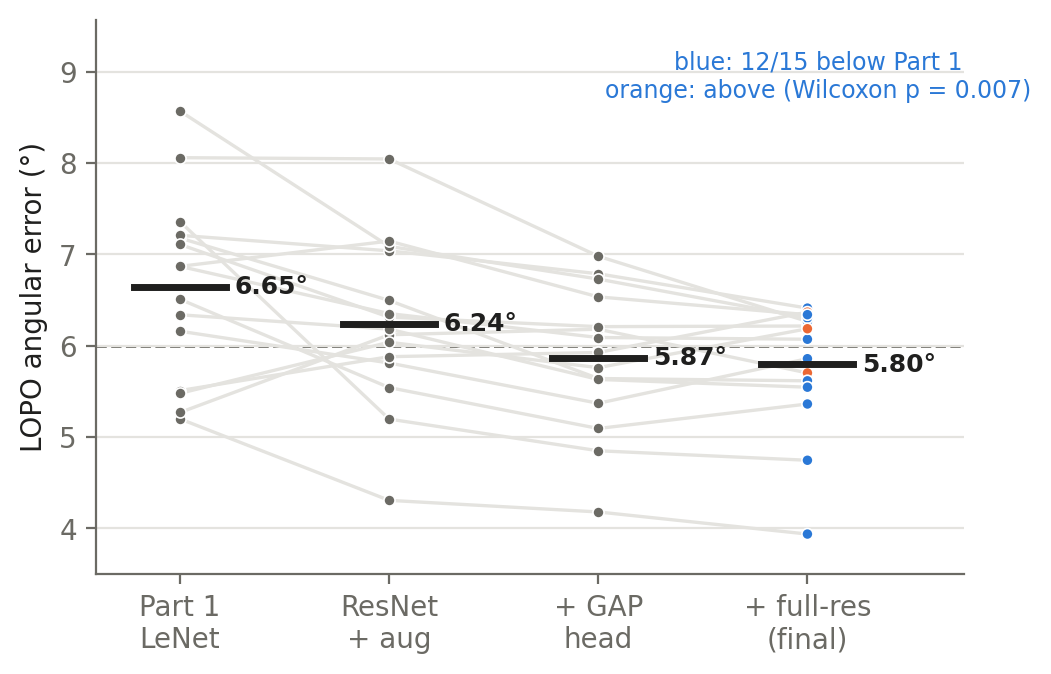
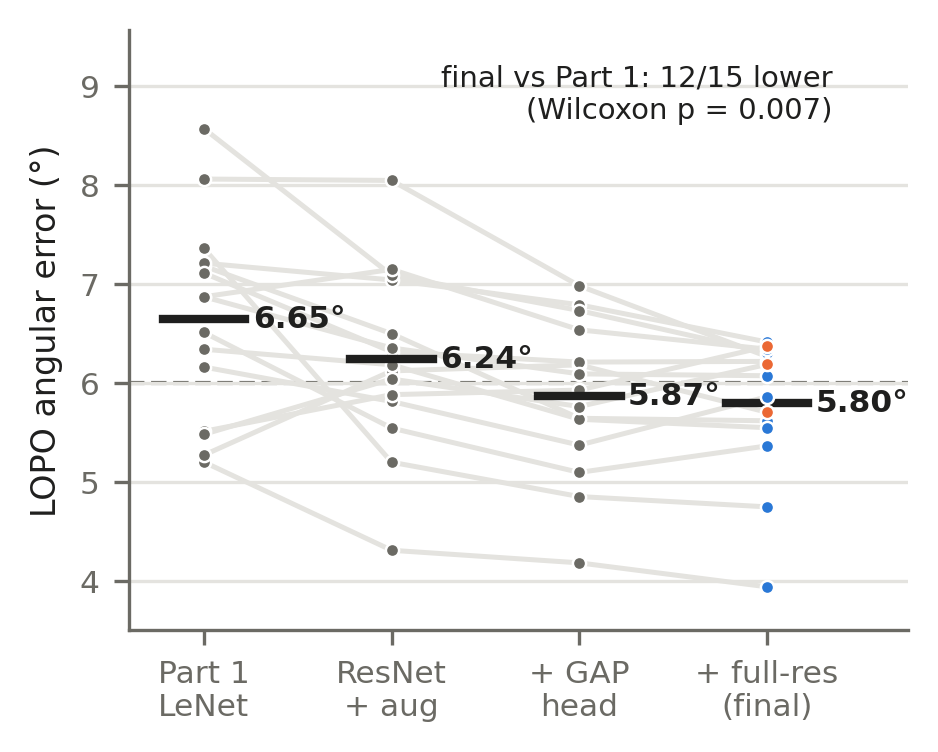
Part 2: print-size figures and final report wording

Changed region(s): [[0.0, 0.0312, 0.9893, 0.9659]]

diff --git a/mpiigaze/part2/make_figures.py b/mpiigaze/part2/make_figures.py
@@ -11,10 +11,10 @@ OUT = os.path.join(HERE, 'figures')
 os.makedirs(OUT, exist_ok=True)
 C = ['#2a78d6', '#eb6834', '#1baf7a', '#eda100']   # 범주 색 (고정 순서)
 INK, MUTED, GRID = '#1f1f1e', '#6b6a64', '#e4e3df'
-plt.rcParams.update({'font.size': 10, 'axes.edgecolor': MUTED, 'axes.labelcolor': INK, 'xtick.color': MUTED,
+plt.rcParams.update({'font.size': 8, 'axes.titlesize': 8, 'axes.labelsize': 8, 'xtick.labelsize': 7.5, 'ytick.labelsize': 7.5, 'legend.fontsize': 7.5, 'axes.edgecolor': MUTED, 'axes.labelcolor': INK, 'xtick.color': MUTED,
                      'ytick.color': MUTED, 'axes.spines.top': False, 'axes.spines.right': False,
                      'axes.grid': True, 'grid.color': GRID, 'grid.linewidth': 0.8, 'axes.axisbelow': True,
-                     'savefig.dpi': 200, 'savefig.bbox': 'tight'})
+                     'savefig.dpi': 300, 'savefig.bbox': 'tight'})
 
 PART1 = np.array([5.20, 7.36, 5.27, 7.18, 7.21, 7.11, 6.34, 8.06, 6.87, 8.57, 6.16, 5.51, 6.51, 6.87, 5.48])
 rows = list(csv.DictReader(open(os.path.join(HERE, 'results.csv'))))
@@ -32,41 +32,43 @@ _, G, _, P = load_data('none')
 models_ = [('Part 1\nLeNet', PART1), ('ResNet\n+ aug', lopo('L_aug')),
            ('+ GAP\nhead', lopo('L_gap')), ('+ full-res\n(final)', lopo('L_gapfull'))]
 V = np.array([m[1] for m in models_])           # (4, 15)
-fig, ax = plt.subplots(figsize=(5.6, 3.6))
+fig, ax = plt.subplots(figsize=(3.35, 2.6))
 x = np.arange(len(models_))
 better = V[-1] < V[0]
 for k in range(15):
     ax.plot(x, V[:, k], color=GRID, lw=1.2, zorder=1)
 for i in range(len(models_)):
-    col = [C[0] if b else C[1] for b in better] if i == len(models_) - 1 else MUTED
-    ax.scatter(np.full(15, x[i]), V[i], s=16, color=col, zorder=2, edgecolor='white', linewidth=0.6)
-    ax.plot([x[i] - 0.22, x[i] + 0.22], [V[i].mean()] * 2, color=INK, lw=2.5, zorder=3)
-    ax.text(x[i] + 0.26, V[i].mean(), f'{V[i].mean():.2f}°', va='center', fontsize=9, color=INK, fontweight='bold')
+    if i == len(models_) - 1:   # 최종 모델: Part 1보다 낮으면 파랑, 높으면 주황 (주황을 위에 그려 가려지지 않게)
+        ax.scatter(np.full(better.sum(), x[i]), V[i][better], s=10, color=C[0], zorder=4, edgecolor='white', linewidth=0.6)
+        ax.scatter(np.full((~better).sum(), x[i]), V[i][~better], s=10, color=C[1], zorder=5, edgecolor='white', linewidth=0.6)
+    else:
+        ax.scatter(np.full(15, x[i]), V[i], s=10, color=MUTED, zorder=2, edgecolor='white', linewidth=0.6)
+    ax.plot([x[i] - 0.22, x[i] + 0.22], [V[i].mean()] * 2, color=INK, lw=2, zorder=3)
+    ax.text(x[i] + 0.26, V[i].mean(), f'{V[i].mean():.2f}°', va='center', fontsize=7.5, color=INK, fontweight='bold')
 ax.axhline(6.0, color=MUTED, lw=1, ls='--', zorder=0)
 p = stats.wilcoxon(V[-1], V[0]).pvalue
-ax.text(x[-1] + 0.05, V.max() + 0.15, f'blue: {better.sum()}/15 below Part 1\norange: above (Wilcoxon p = {p:.3f})', ha='center', fontsize=8.5, color=C[0])
+ax.text(x[-1] + 0.35, V.max() + 0.1, f'final vs Part 1: {better.sum()}/15 lower\n(Wilcoxon p = {p:.3f})', ha='right', fontsize=7, color=INK)
 ax.set_xticks(x, [m[0] for m in models_]); ax.set_xlim(-0.4, x[-1] + 0.75)
 ax.set_ylabel('LOPO angular error (°)'); ax.grid(axis='x', visible=False)
 ax.set_ylim(3.5, V.max() + 1.0)
 fig.savefig(os.path.join(OUT, 'lopo_paired.png')); plt.close(fig)
 
 # 2. 학습 곡선 (LOPO 15 fold 평균), 범례 대신 직접 라벨
-fig, ax = plt.subplots(figsize=(5.4, 3.3))
-for i, (pre, lab) in enumerate([('L_aug', 'flatten'), ('L_gapfull', 'GAP, full-res')]):
+fig, ax = plt.subplots(figsize=(3.35, 2.4))
+for i, (pre, lab) in enumerate([('L_aug', 'flatten'), ('L_gapfull', 'GAP')]):
     H = [json.load(open(os.path.join(HERE, 'runs', f'{pre}_p{k:02d}.json')))['hist'] for k in range(15)]
     tr = np.mean([[h['train_err'] for h in hh] for hh in H], 0)
     te = np.mean([[h['test_err'] for h in hh] for hh in H], 0)
     ep = np.arange(1, len(tr) + 1)
-    ax.plot(ep, te, color=C[i], lw=2, marker='o', ms=4)
-    ax.plot(ep, tr, color=C[i], lw=2, ls='--')
-    ax.text(ep[-1] + 0.15, te[-1], f'{lab} test {te[-1]:.2f}°', color=C[i], va='center', fontsize=8.5)
-    ax.text(ep[-1] + 0.15, tr[-1], f'{lab} train {tr[-1]:.2f}°', color=C[i], va='center', fontsize=8.5)
+    ax.plot(ep, te, color=C[i], lw=1.6, marker='o', ms=3)
+    ax.plot(ep, tr, color=C[i], lw=1.6, ls='--')
+    ax.text(ep[-1] + 0.2, te[-1], f'{lab} test {te[-1]:.2f}°', color=C[i], va='center', fontsize=7)
+    ax.text(ep[-1] + 0.2, tr[-1], f'{lab} train {tr[-1]:.2f}°', color=C[i], va='center', fontsize=7)
     if pre == 'L_gapfull':
         ax.fill_between(ep[1:], tr[1:], te[1:], color=C[i], alpha=0.08)
-        ax.text(5.3, (tr[5] + te[5]) / 2, f'gap {te[-1] - tr[-1]:.1f}°', color=C[i], fontsize=8.5)
+        ax.text(5.6, (tr[5] + te[5]) / 2, f'gap {te[-1] - tr[-1]:.1f}°', color=C[i], fontsize=7)
 ax.set_xlabel('Epoch'); ax.set_ylabel('Mean angular error (°)'); ax.set_ylim(2.5, 9)
-ax.set_xlim(0.7, 11.2); ax.set_xticks(range(1, 9))
-ax.text(1.05, 2.7, 'solid: test (unseen person)   dashed: train (augmented)', fontsize=7.5, color=MUTED)
+ax.set_xlim(0.7, 12.0); ax.set_xticks(range(1, 9))
 fig.savefig(os.path.join(OUT, 'learning_curves.png')); plt.close(fig)
 
 # 3. 사람별 고정 편향: (a) 평균 잔차 (b) 편향 제거 전후 오차 (분석용, 테스트 라벨 사용)
@@ -78,24 +80,25 @@ for k in range(15):
     e0.append(nn.angular_error_deg(p_, G[te]).mean())
     e1.append(nn.angular_error_deg(p_ - (p_ - G[te]).mean(0), G[te]).mean())
 bias, e0, e1 = np.array(bias), np.array(e0), np.array(e1)
-fig, (a1, a2) = plt.subplots(1, 2, figsize=(8.6, 3.6), gridspec_kw={'width_ratios': [1, 1.15]})
-a1.scatter(bias[:, 1], bias[:, 0], s=36, color=C[0], edgecolor='white', linewidth=1.2, zorder=3)
+fig, (a1, a2) = plt.subplots(1, 2, figsize=(6.9, 2.9), gridspec_kw={'width_ratios': [1, 1.15]})
+a1.scatter(bias[:, 1], bias[:, 0], s=22, color=C[0], edgecolor='white', linewidth=1.2, zorder=3)
 for k in range(15):
-    a1.annotate(f'p{k:02d}', (bias[k, 1], bias[k, 0]), textcoords='offset points', xytext=(4, 3), fontsize=7, color=MUTED)
+    a1.annotate(f'p{k:02d}', (bias[k, 1], bias[k, 0]), textcoords='offset points',
+                xytext=(3, -8) if k == 0 else (3, 2), fontsize=6.5, color=MUTED)   # p00은 p12와 겹치지 않게 아래에
 a1.axhline(0, color=MUTED, lw=0.8); a1.axvline(0, color=MUTED, lw=0.8)
 lim = np.abs(bias).max() + 1
 a1.set_xlim(-lim, lim); a1.set_ylim(-lim, lim); a1.set_aspect('equal')
 a1.set_xlabel('Mean yaw residual (°)'); a1.set_ylabel('Mean pitch residual (°)')
-a1.set_title(f'(a) per-person offset, mean |offset| = {np.linalg.norm(bias, axis=1).mean():.1f}°', loc='left', fontsize=9, color=INK)
+a1.set_title(f'(a) per-person offset, mean |offset| = {np.linalg.norm(bias, axis=1).mean():.1f}°', loc='left', fontsize=8, color=INK)
 o = np.argsort(e0)
 y = np.arange(15)
-a2.hlines(y, e1[o], e0[o], color=GRID, lw=2.5)
-a2.scatter(e0[o], y, s=26, color=C[1], zorder=3, label=f'final model ({e0.mean():.2f}°)')
-a2.scatter(e1[o], y, s=26, color=C[0], zorder=3, label=f'offset removed ({e1.mean():.2f}°)')
-a2.set_yticks(y, [f'p{k:02d}' for k in o], fontsize=7.5)
+a2.hlines(y, e1[o], e0[o], color=GRID, lw=2)
+a2.scatter(e0[o], y, s=16, color=C[1], zorder=3, label=f'final model ({e0.mean():.2f}°)')
+a2.scatter(e1[o], y, s=16, color=C[0], zorder=3, label=f'offset removed ({e1.mean():.2f}°)')
+a2.set_yticks(y, [f'p{k:02d}' for k in o], fontsize=6.5)
 a2.set_xlabel('LOPO angular error (°)'); a2.grid(axis='y', visible=False)
-a2.legend(frameon=False, fontsize=8, loc='lower right')
-a2.set_title('(b) error before / after removing each offset', loc='left', fontsize=9, color=INK)
+a2.legend(frameon=False, fontsize=7, loc='upper center', bbox_to_anchor=(0.5, -0.17), ncol=2)
+a2.set_title('(b) error before / after removing each offset', loc='left', fontsize=8, color=INK)
 fig.tight_layout()
 fig.savefig(os.path.join(OUT, 'person_bias.png')); plt.close(fig)
 

diff --git a/mpiigaze/part2/report/main.tex b/mpiigaze/part2/report/main.tex
@@ -33,7 +33,7 @@ Global Average Pooling 잔차망으로 MPIIGaze LOPO 5.80$\dg$}
 \maketitle
 \vspace{-6mm}
 \begin{abstract}
-본 연구는 딥러닝 프레임워크 없이 교재의 NumPy 레이어만으로 구현한 CNN으로 MPIIGaze 평가 서브셋(15명, 45,000장, $36\times60$ 정규화 눈 영상)의 사람 독립 시선 추정 성능을 개선하였다. 교재 레이어를 NHWC 배치로 재구성하고 im2col 복사를 제거한 평탄화 시프트 합성곱을 구현하여 학습 속도를 2배 높였으며, 출력과 기울기가 교재 코드와 수치적으로 일치함을 확인하였다. 여기에 잔차 블록, 배치 정규화, 데이터 증강, global average pooling(GAP)을 추가하였다. 15명 leave-one-person-out(LOPO) 평가에서 단일 모델의 평균 각도 오차는 Part 1 LeNet 6.65$\dg$, 증강 ResNet 6.24$\dg$, GAP 5.87$\dg$, 첫 풀링을 제거한 고해상도 GAP 5.80$\dg$ 순으로 감소하였고, 파라미터 수는 2.0M에서 0.73M으로 감소하였다. 최종 모델은 15명 중 12명에서 Part 1보다 오차가 낮았다(Wilcoxon $p=0.007$). 잔여 오차의 주요 성분은 사람별 고정 편향(평균 3.4$\dg$)이며, 이를 제거하면 오차가 4.63$\dg$로 감소한다.
+본 연구는 딥러닝 프레임워크 없이 교재의 NumPy 레이어를 기반으로 직접 구현한 CNN으로 MPIIGaze 평가 서브셋(15명, 45,000장, $36\times60$ 정규화 눈 영상)의 사람 독립 시선 추정 성능을 개선하였다. 교재 레이어를 NHWC 배치로 재구성하고 im2col 복사를 제거한 평탄화 시프트 합성곱을 구현하여 학습 속도를 2배 높였으며, 출력과 기울기가 교재 코드와 수치적으로 일치함을 확인하였다. 여기에 잔차 블록, 배치 정규화, 데이터 증강, global average pooling(GAP)을 추가하였다. 15명 leave-one-person-out(LOPO) 평가에서 단일 모델의 평균 각도 오차는 Part 1 LeNet 6.65$\dg$, 증강 ResNet 6.24$\dg$, GAP 5.87$\dg$, 첫 풀링을 제거한 고해상도 GAP 5.80$\dg$ 순으로 감소하였고, 파라미터 수는 2.0M에서 0.73M으로 감소하였다. 최종 모델은 15명 중 12명에서 Part 1보다 오차가 낮았다(Wilcoxon $p=0.007$). 잔여 오차의 주요 성분은 사람별 고정 편향(평균 3.4$\dg$)이며, 테스트 라벨로 이 편향을 제거하는 사후 분석에서 오차는 4.63$\dg$로 감소한다.
 \end{abstract}
 \vspace{4mm}
 \end{@twocolumnfalse}
@@ -122,7 +122,7 @@ ResNet (GAP) + 증강 & 0.73M & 5.87 & 3.82\\
 \bottomrule
 \end{tabular}
 \end{table}
-LOPO 결과를 표~\ref{tab:lopo}, 사람별 오차와 쌍체 비교를 그림~\ref{fig:steps}와 표~\ref{tab:stats}에 제시한다. 원 논문~\cite{zhang2015}의 LeNet 계열 모델은 동일 프로토콜에서 6.3$\dg$를 보고하였다.
+LOPO 결과를 표~\ref{tab:lopo}, 사람별 오차와 쌍체 비교를 그림~\ref{fig:steps}, 표~\ref{tab:stats}에 제시한다. 원 논문~\cite{zhang2015}의 LeNet 계열 모델은 동일 프로토콜에서 6.3$\dg$를 보고하였다.
 
 \begin{figure}[!htb]
 \centering
@@ -184,13 +184,13 @@ MSE 손실 & 6.82\\
 \subsection{학습 곡선과 잔여 오차}
 \begin{figure}[!htb]
 \centering
-\includegraphics[width=0.95\linewidth]{learning_curves.png}
+\includegraphics[width=\linewidth]{learning_curves.png}
 \caption{LOPO 15 fold 평균 학습 곡선. 실선: 테스트, 점선: 증강된 학습 배치, 음영: 최종 모델의 학습--테스트 오차 차이.}
 \label{fig:curve}
 \end{figure}
 \begin{figure*}[!t]
 \centering
-\includegraphics[width=0.88\textwidth]{person_bias.png}
+\includegraphics[width=\textwidth]{person_bias.png}
 \caption{최종 모델의 사람별 고정 편향. (a) 사람별 평균 잔차(예측$-$정답). (b) 사람별 오차와, 각자의 평균 잔차를 차감한 뒤의 오차(테스트 라벨을 사용하는 분석용 계산).}
 \label{fig:bias}
 \end{figure*}
